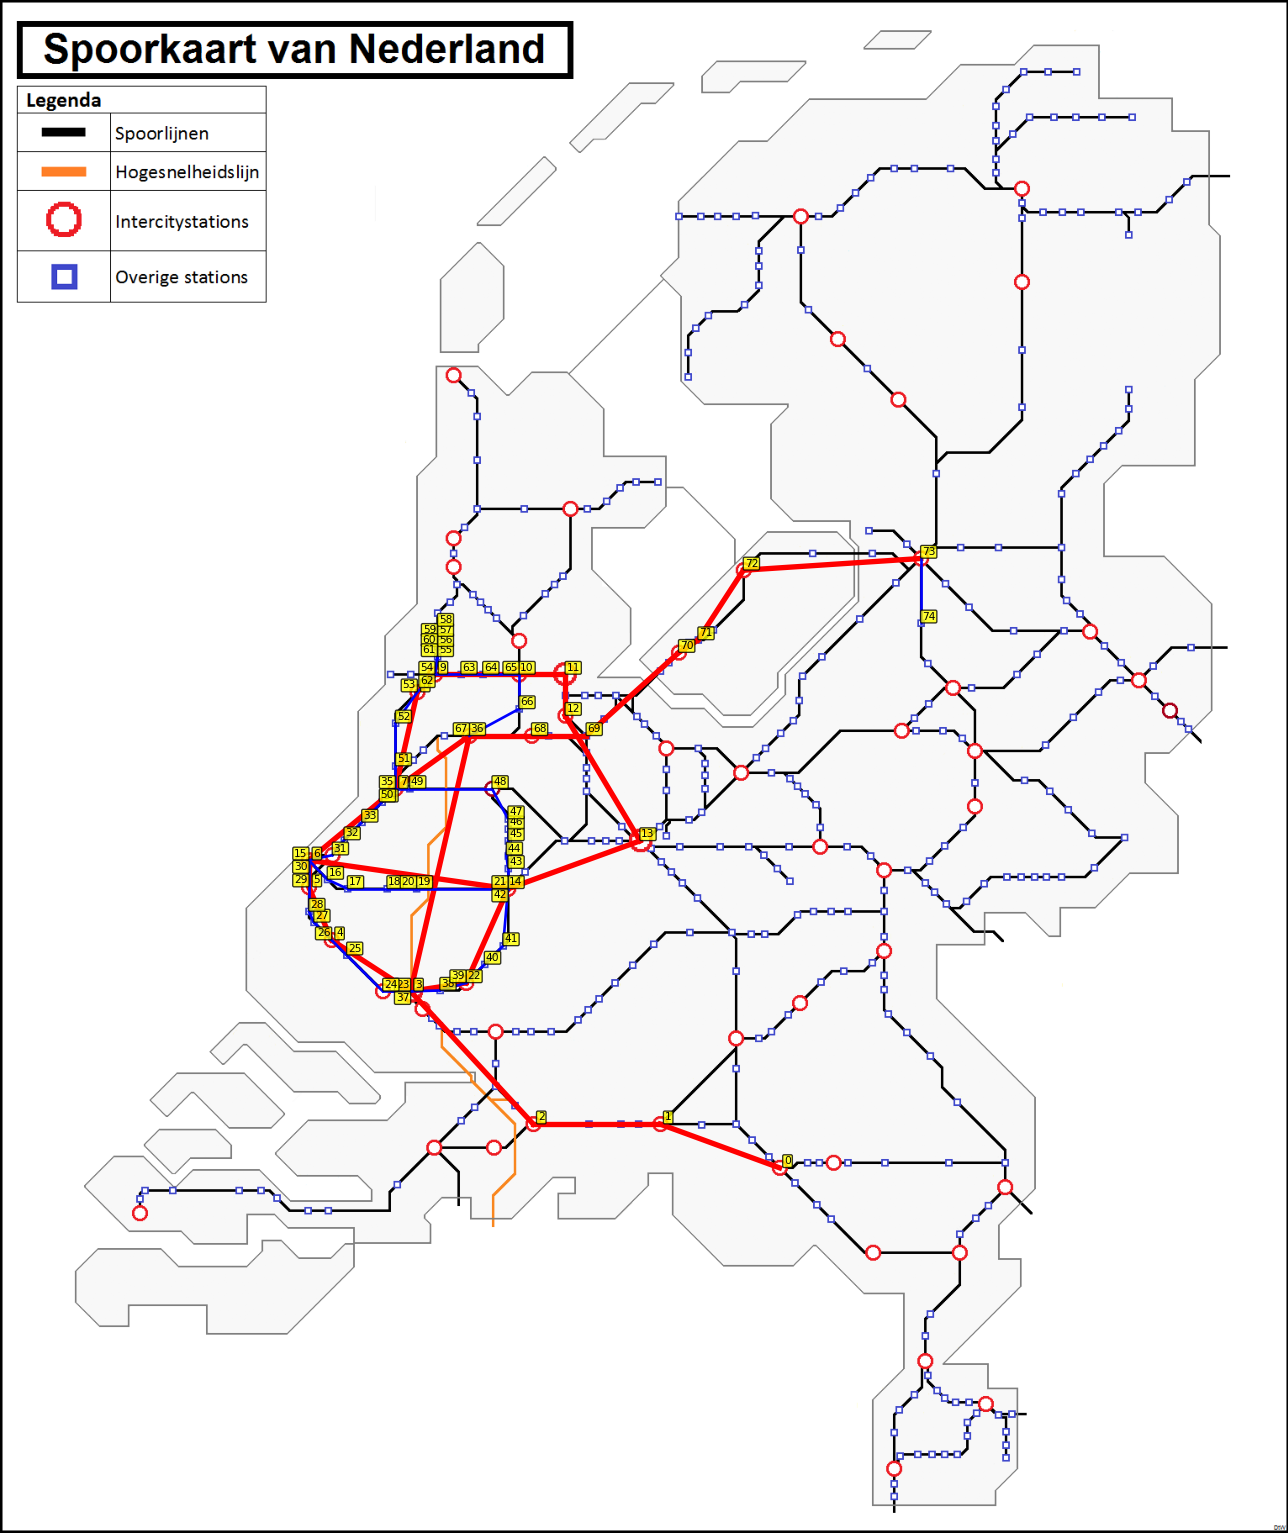
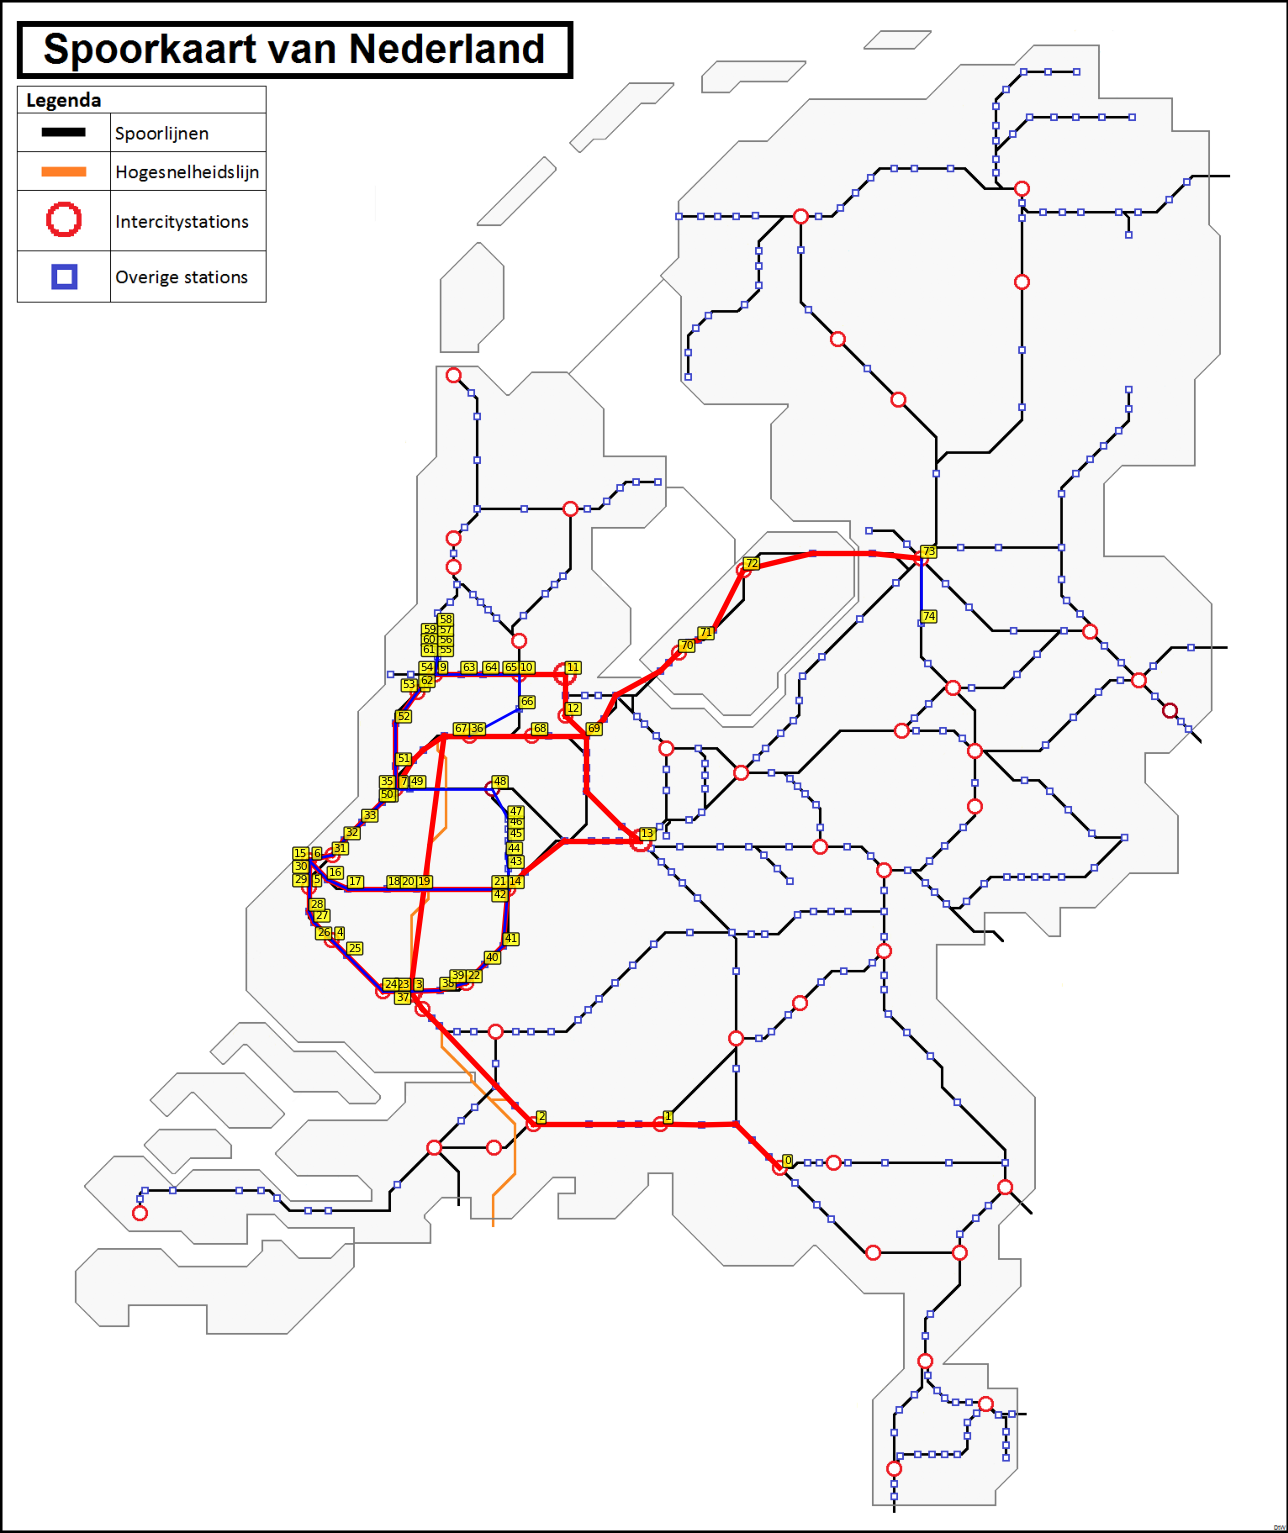
- Plot intermediate stations as well for better route checking

diff --git a/visualization/plot_route.py b/visualization/plot_route.py
@@ -5,7 +5,9 @@ import matplotlib.pyplot as plt
 from matplotlib.axes import Axes
 from matplotlib.figure import Figure
 
-from data_processing.data_utils import read_csv_to_df
+from data_processing.data_utils import (
+    read_csv_to_df, load_intermediate_stations
+)
 from settings import VersionSettings
 SETTINGS = VersionSettings.get_version_settings()
 
@@ -66,6 +68,7 @@ class RoutePlotter:
         self.coordinates: dict = _get_coordinates()
         self.spoorkaart_img: np.ndarray = _read_image()
         self.route_df: pd.DataFrame = _get_latest_route()
+        self.intermediate_stations: dict = load_intermediate_stations()
 
         # Create the Matplotlib figure and axes
         self.fig: Figure = plt.figure(
@@ -109,6 +112,7 @@ class RoutePlotter:
         coordinate_count = {}
 
         for i, row in self.route_df.iterrows():
+            # First, focus on the numbered labels
             x1, y1 = self.coordinates[row['Station']]
             x2, y2 = self.coordinates[row['To']]
             coords = (x1, y1)
@@ -119,18 +123,29 @@ class RoutePlotter:
             else:
                 coordinate_count[coords] = 0
 
-            # Get the offset tuple, and color & width depending on train type
+            # Get the offset tuple
             offset = self.offsets[coordinate_count[coords] % 4]
+            self._annotate_numbered_station(i, x1, y1, offset)
+
+            # After numbered labels, deal with section lines
+            # Color & width depending on train type
             color = 'r' if row['Type'] == 'Int' else 'b'
             linewidth = 4 if row['Type'] == 'Int' else 2
             zorder = 1 if row['Type'] == 'Int' else 2
 
-            # Plot the line, then the numbered station visit
-            self.ax.plot(
-                [x1, x2], [y1, y2], color=color,
-                linewidth=linewidth, zorder=zorder,
-            )
-            self._annotate_numbered_station(i, x1, y1, offset)
+            # List of codes of all intermediate stations (including start/stop)
+            stations = self.intermediate_stations[row['Station']][row['To']]
+
+            # Go over each consecutive pair
+            for start, stop in zip(stations[:-1], stations[1:]):
+                x1, y1 = self.coordinates[start]
+                x2, y2 = self.coordinates[stop]
+
+                # Plot the line between two neighboring stations
+                self.ax.plot(
+                    [x1, x2], [y1, y2], color=color,
+                    linewidth=linewidth, zorder=zorder,
+                )
 
         # Annotate for the final station as well
         self._annotate_numbered_station(i+1, x2, y2, offset)
